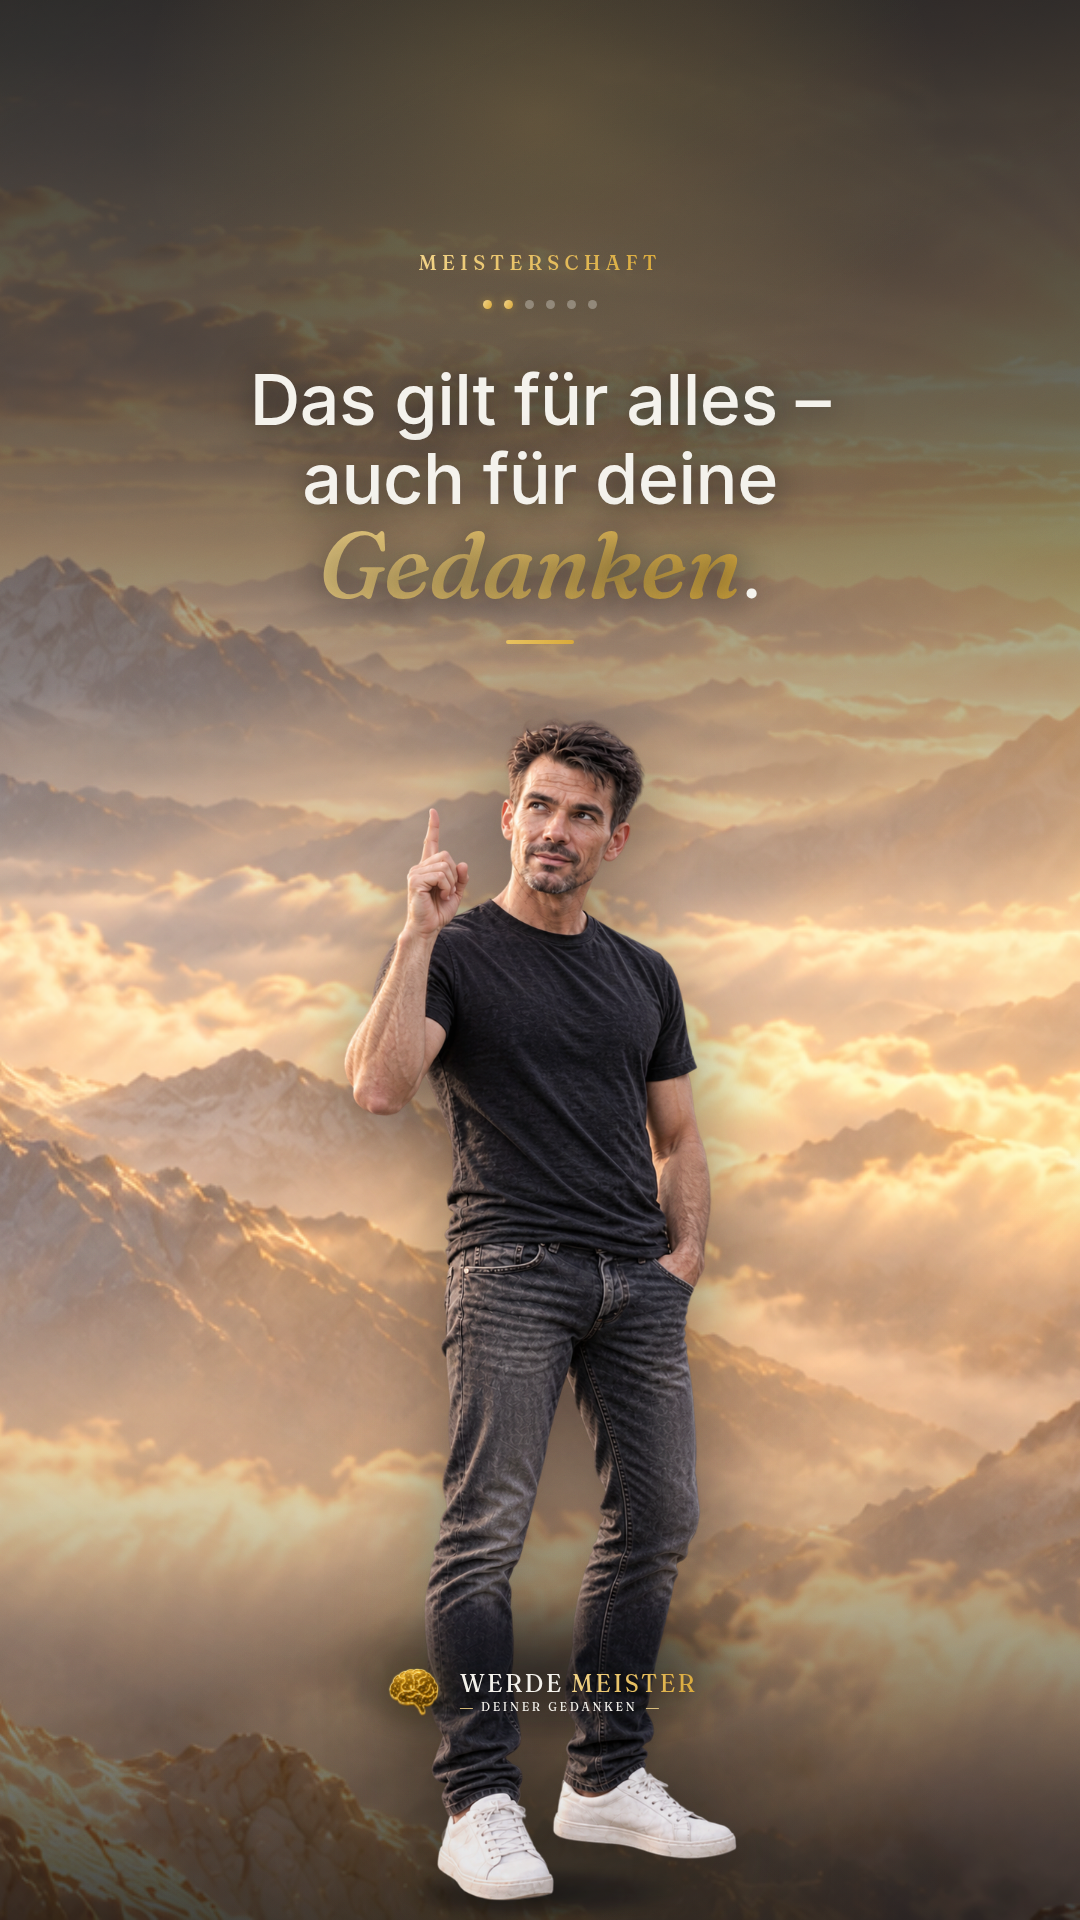
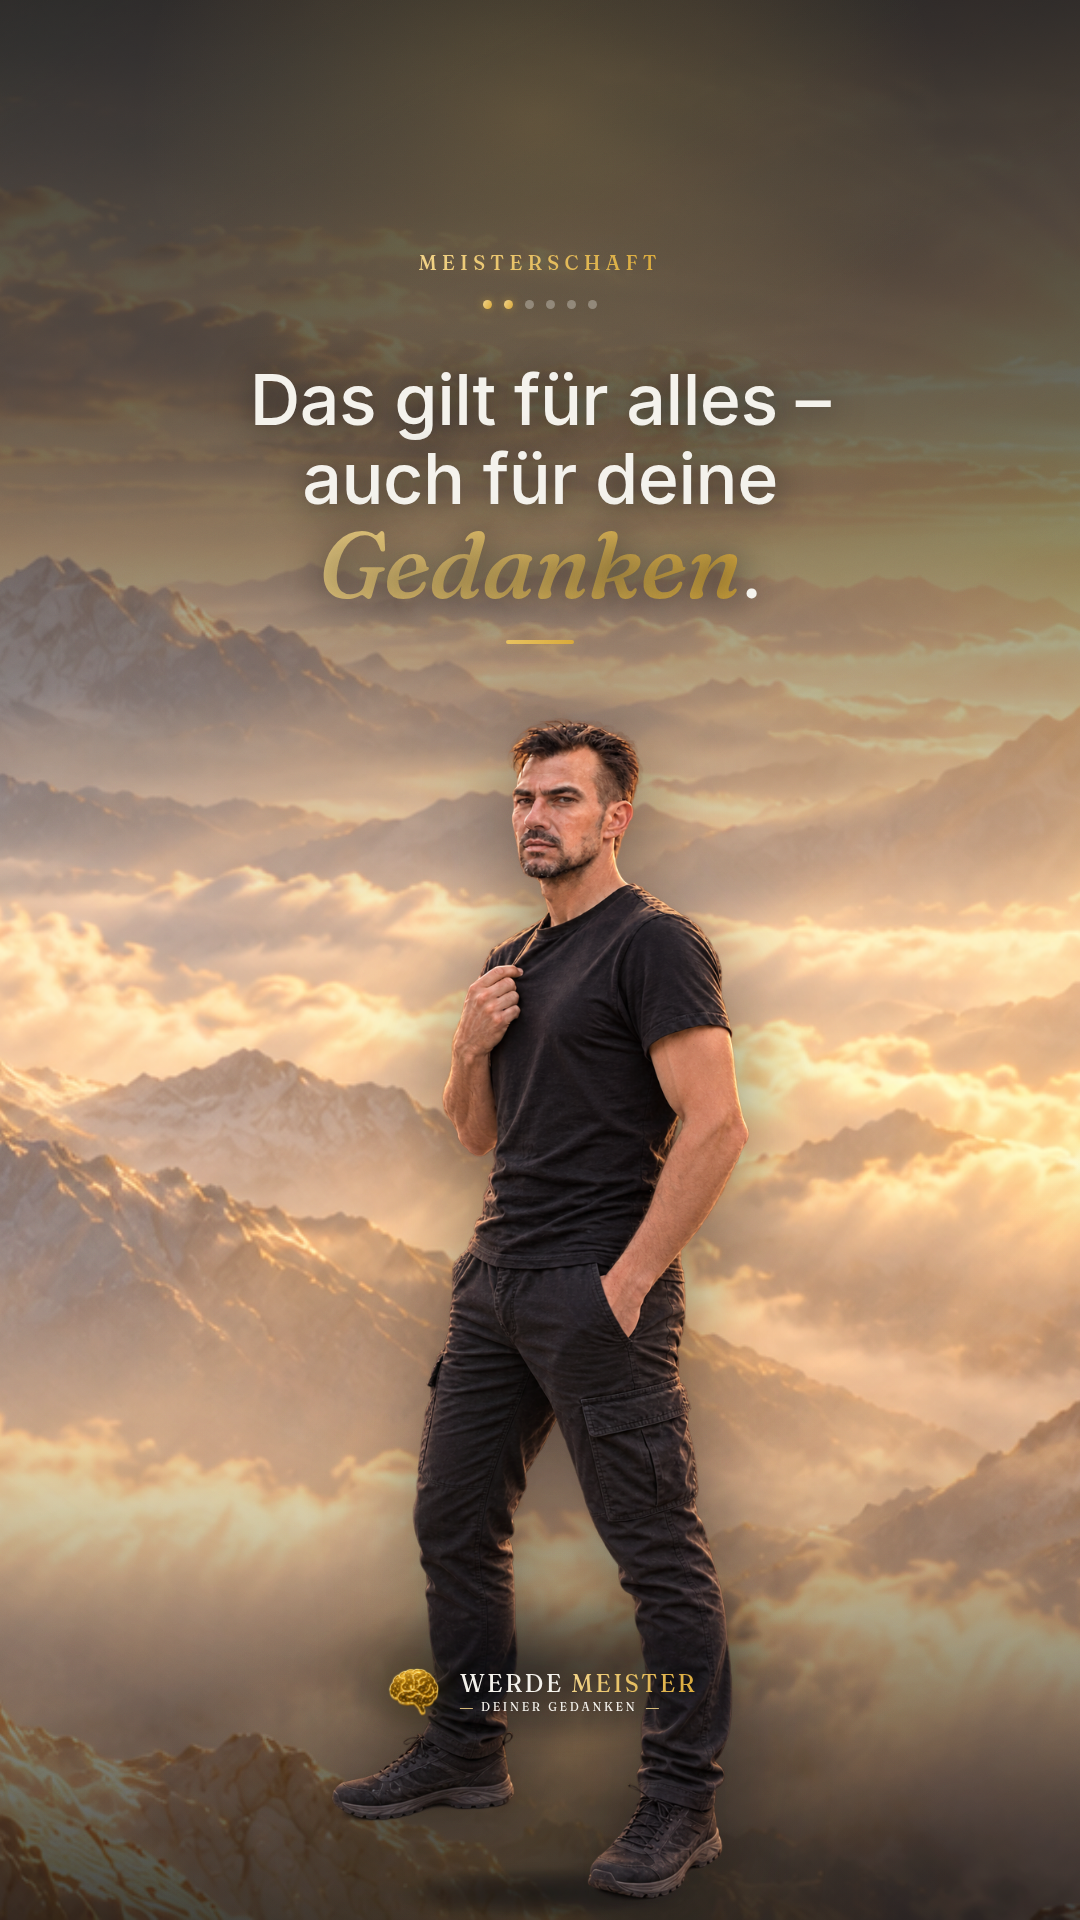
Social: Story „Meisterschaft" – Posen auf Slide 2 & 5 getauscht
Mehr Abwechslung: Slide 2 (Gedanken) nutzt jetzt die Hand-auf-Brust-Pose,
Slide 5 (Klarheit) eine klare Zeigegeste – vorher zweimal Finger-hoch.

Claude-Session: https://claude.ai/code/session_01M1YcZR29Nm1qxHVibmA1qg

Changed region(s): [[0.275, 0.375, 0.7333, 1.0]]

diff --git a/tools/social/weisheiten/gen-story-meisterschaft.js b/tools/social/weisheiten/gen-story-meisterschaft.js
@@ -5,10 +5,10 @@ const { buildSeries } = require("./lib/centered");
 
 const POSES = {
   armeVerschraenktB: { nat: [1024, 1536], bb: { minx: 317, maxx: 751,  miny: 35, maxy: 1507 } },
-  merke:             { nat: [941, 1670],  bb: { minx: 202, maxx: 724,  miny: 28, maxy: 1604 } },
+  handBrust:         { nat: [1024, 1536], bb: { minx: 198, maxx: 714,  miny: 32, maxy: 1502 } },
   nachdenken:        { nat: [1024, 1536], bb: { minx: 65,  maxx: 987,  miny: 42, maxy: 1508 } },
   kopfkratzen:       { nat: [1024, 1536], bb: { minx: 194, maxx: 786,  miny: 46, maxy: 1482 } },
-  fingerhoch:        { nat: [1024, 1536], bb: { minx: 44,  maxx: 1022, miny: 12, maxy: 1534 } },
+  punkt:             { nat: [1024, 1536], bb: { minx: 152, maxx: 882,  miny: 24, maxy: 1534 } },
   reichtHand:        { nat: [1024, 1536], bb: { minx: 287, maxx: 768,  miny: 28, maxy: 1465 } },
 };
 
@@ -21,13 +21,13 @@ const n = buildSeries({
   items: [
     { n: 1, key: "hook", pose: "armeVerschraenktB", scale: 0.86,
       q: `Du kannst nicht<br>eine Sache st&auml;ndig<br><em>wiederholen</em>,<br>ohne immer <em>besser</em><br>zu werden.` },
-    { n: 2, key: "gedanken", pose: "merke",
+    { n: 2, key: "gedanken", pose: "handBrust",
       q: `Das gilt f&uuml;r alles &ndash;<br>auch f&uuml;r deine<br><em>Gedanken</em>.` },
     { n: 3, key: "spur", pose: "nachdenken",
       q: `Jeder Gedanke,<br>den du oft denkst,<br>gr&auml;bt eine <em>Spur</em>.` },
     { n: 4, key: "zweifel", pose: "kopfkratzen",
       q: `Wiederholst du<br><em>Zweifel</em>, wirst du<br>Meister im <em>Zweifeln</em>.` },
-    { n: 5, key: "klarheit", pose: "fingerhoch",
+    { n: 5, key: "klarheit", pose: "punkt",
       q: `Wiederholst du<br><em>Klarheit</em>, wirst du<br>Meister der <em>Klarheit</em>.` },
     { n: 6, key: "start", pose: "reichtHand",
       q: `Also &ndash; worin willst<br>du <em>besser</em> werden?<br>Fang <em>heute</em> an.`,
